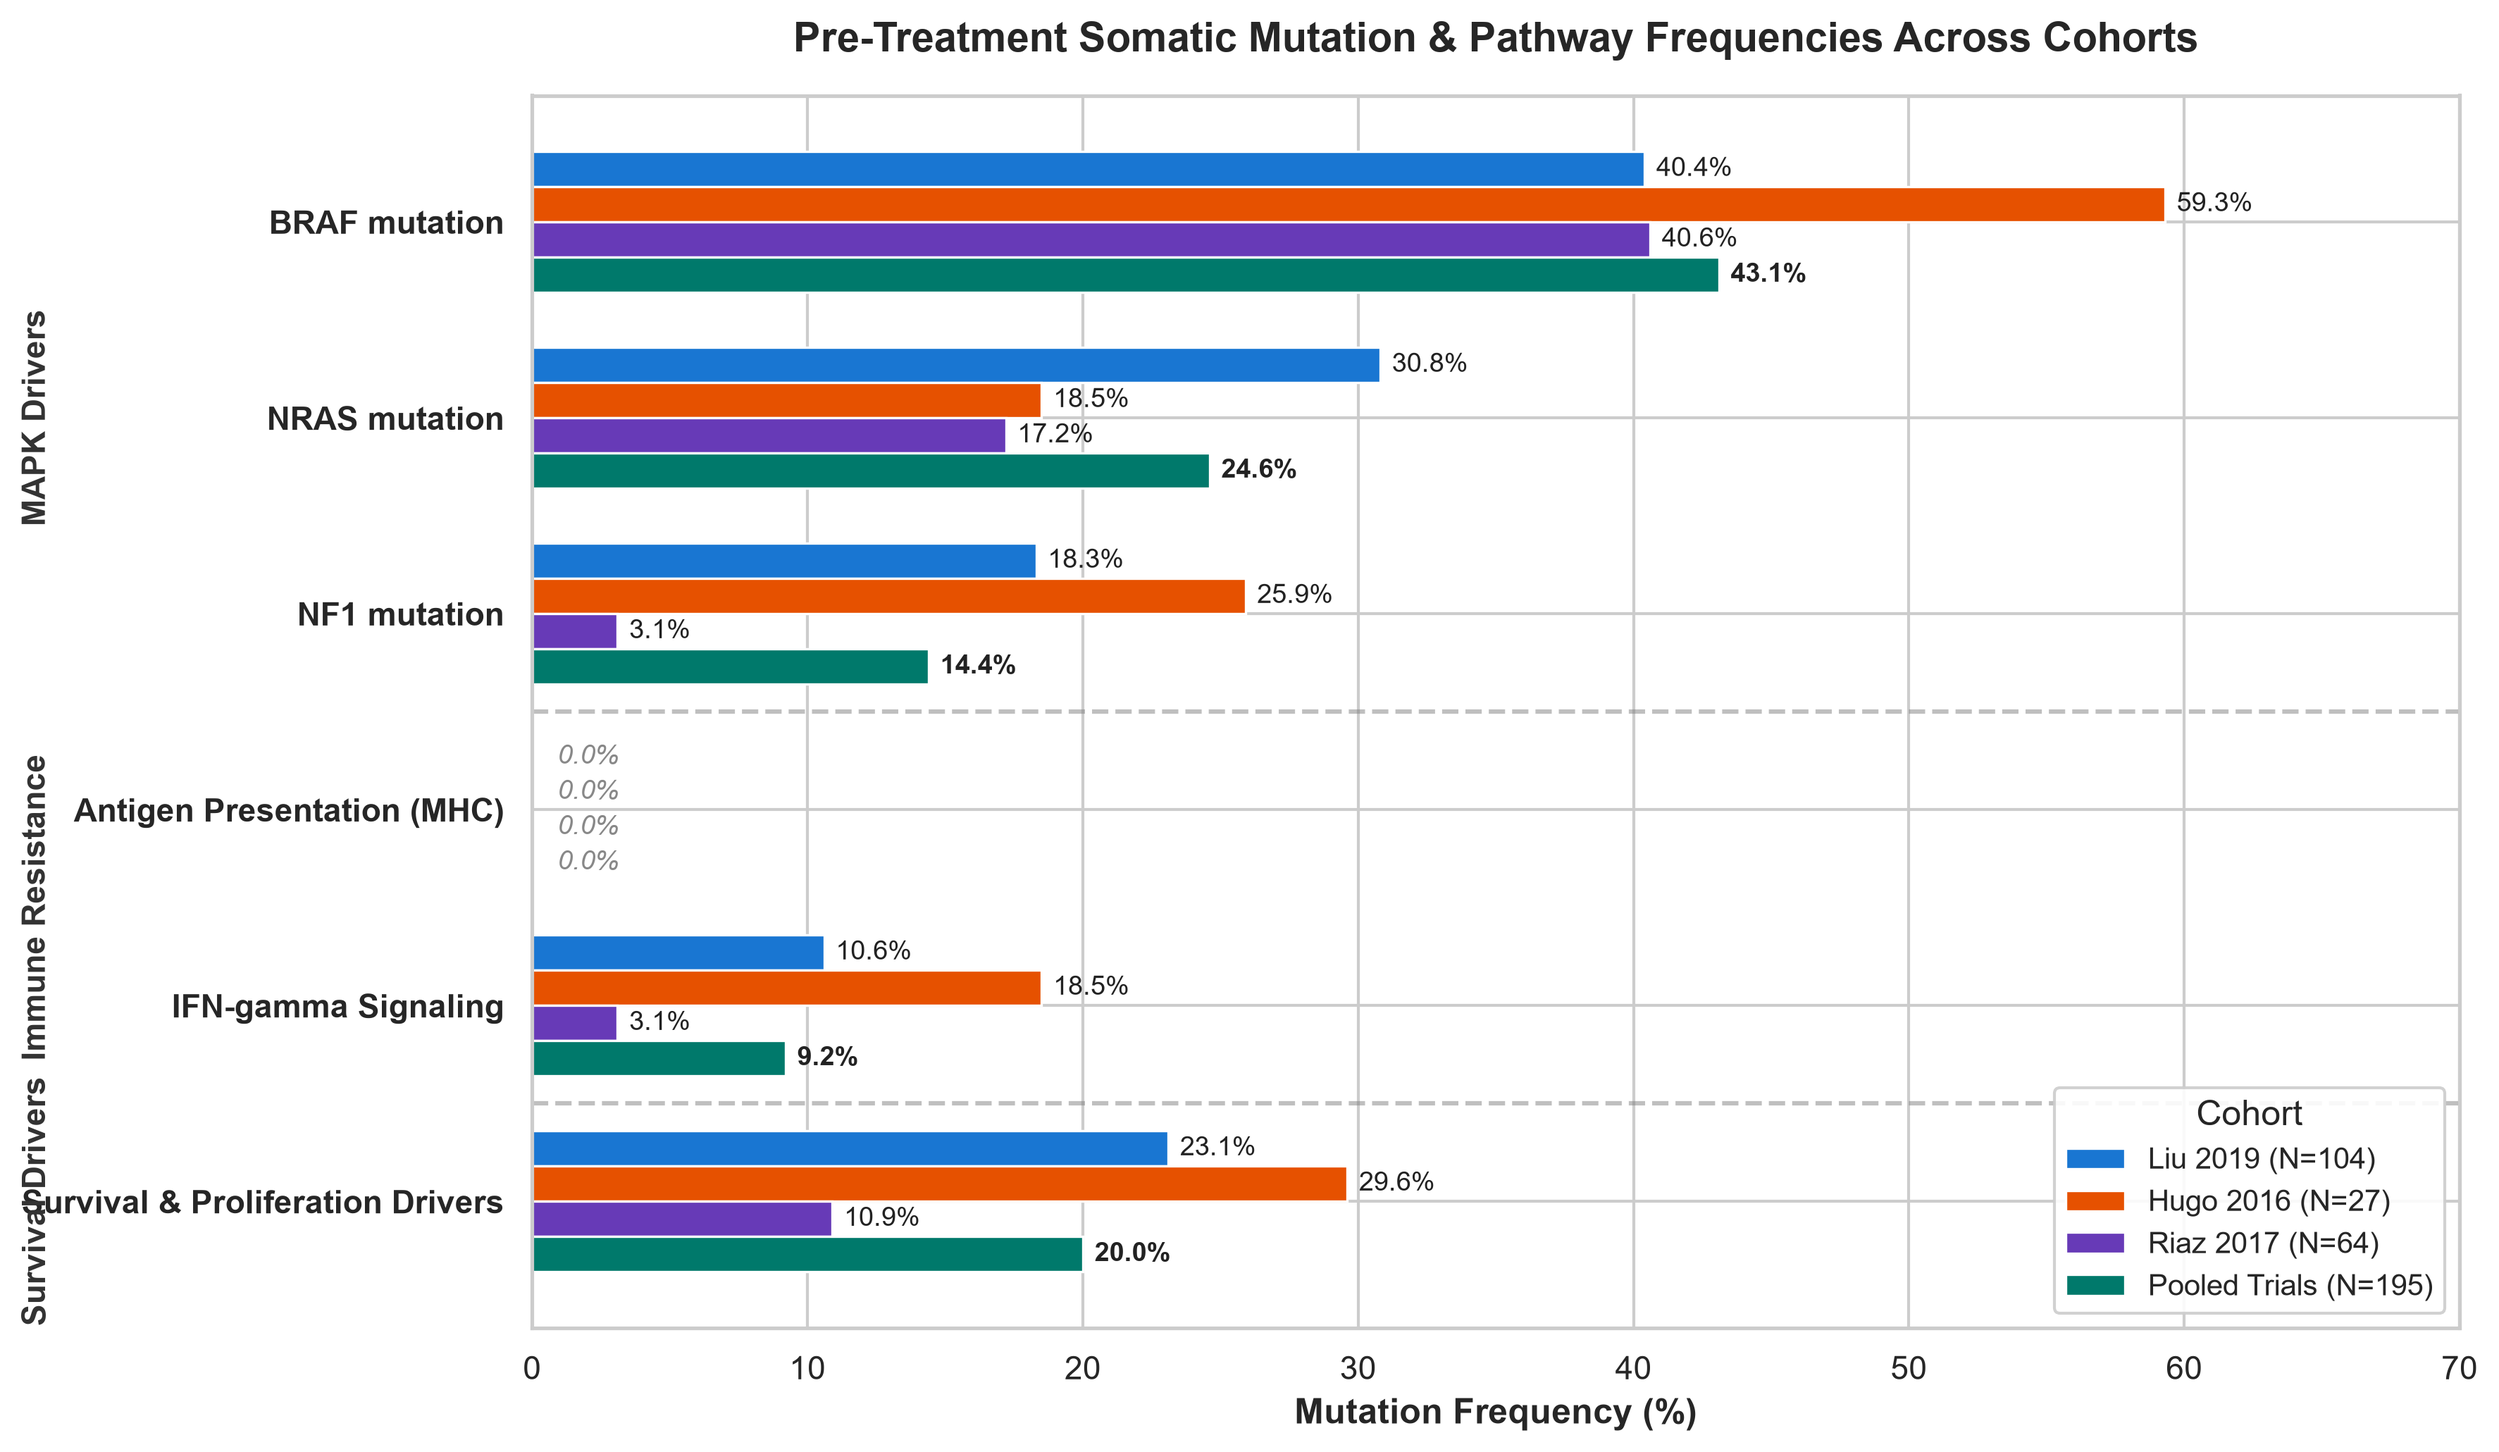
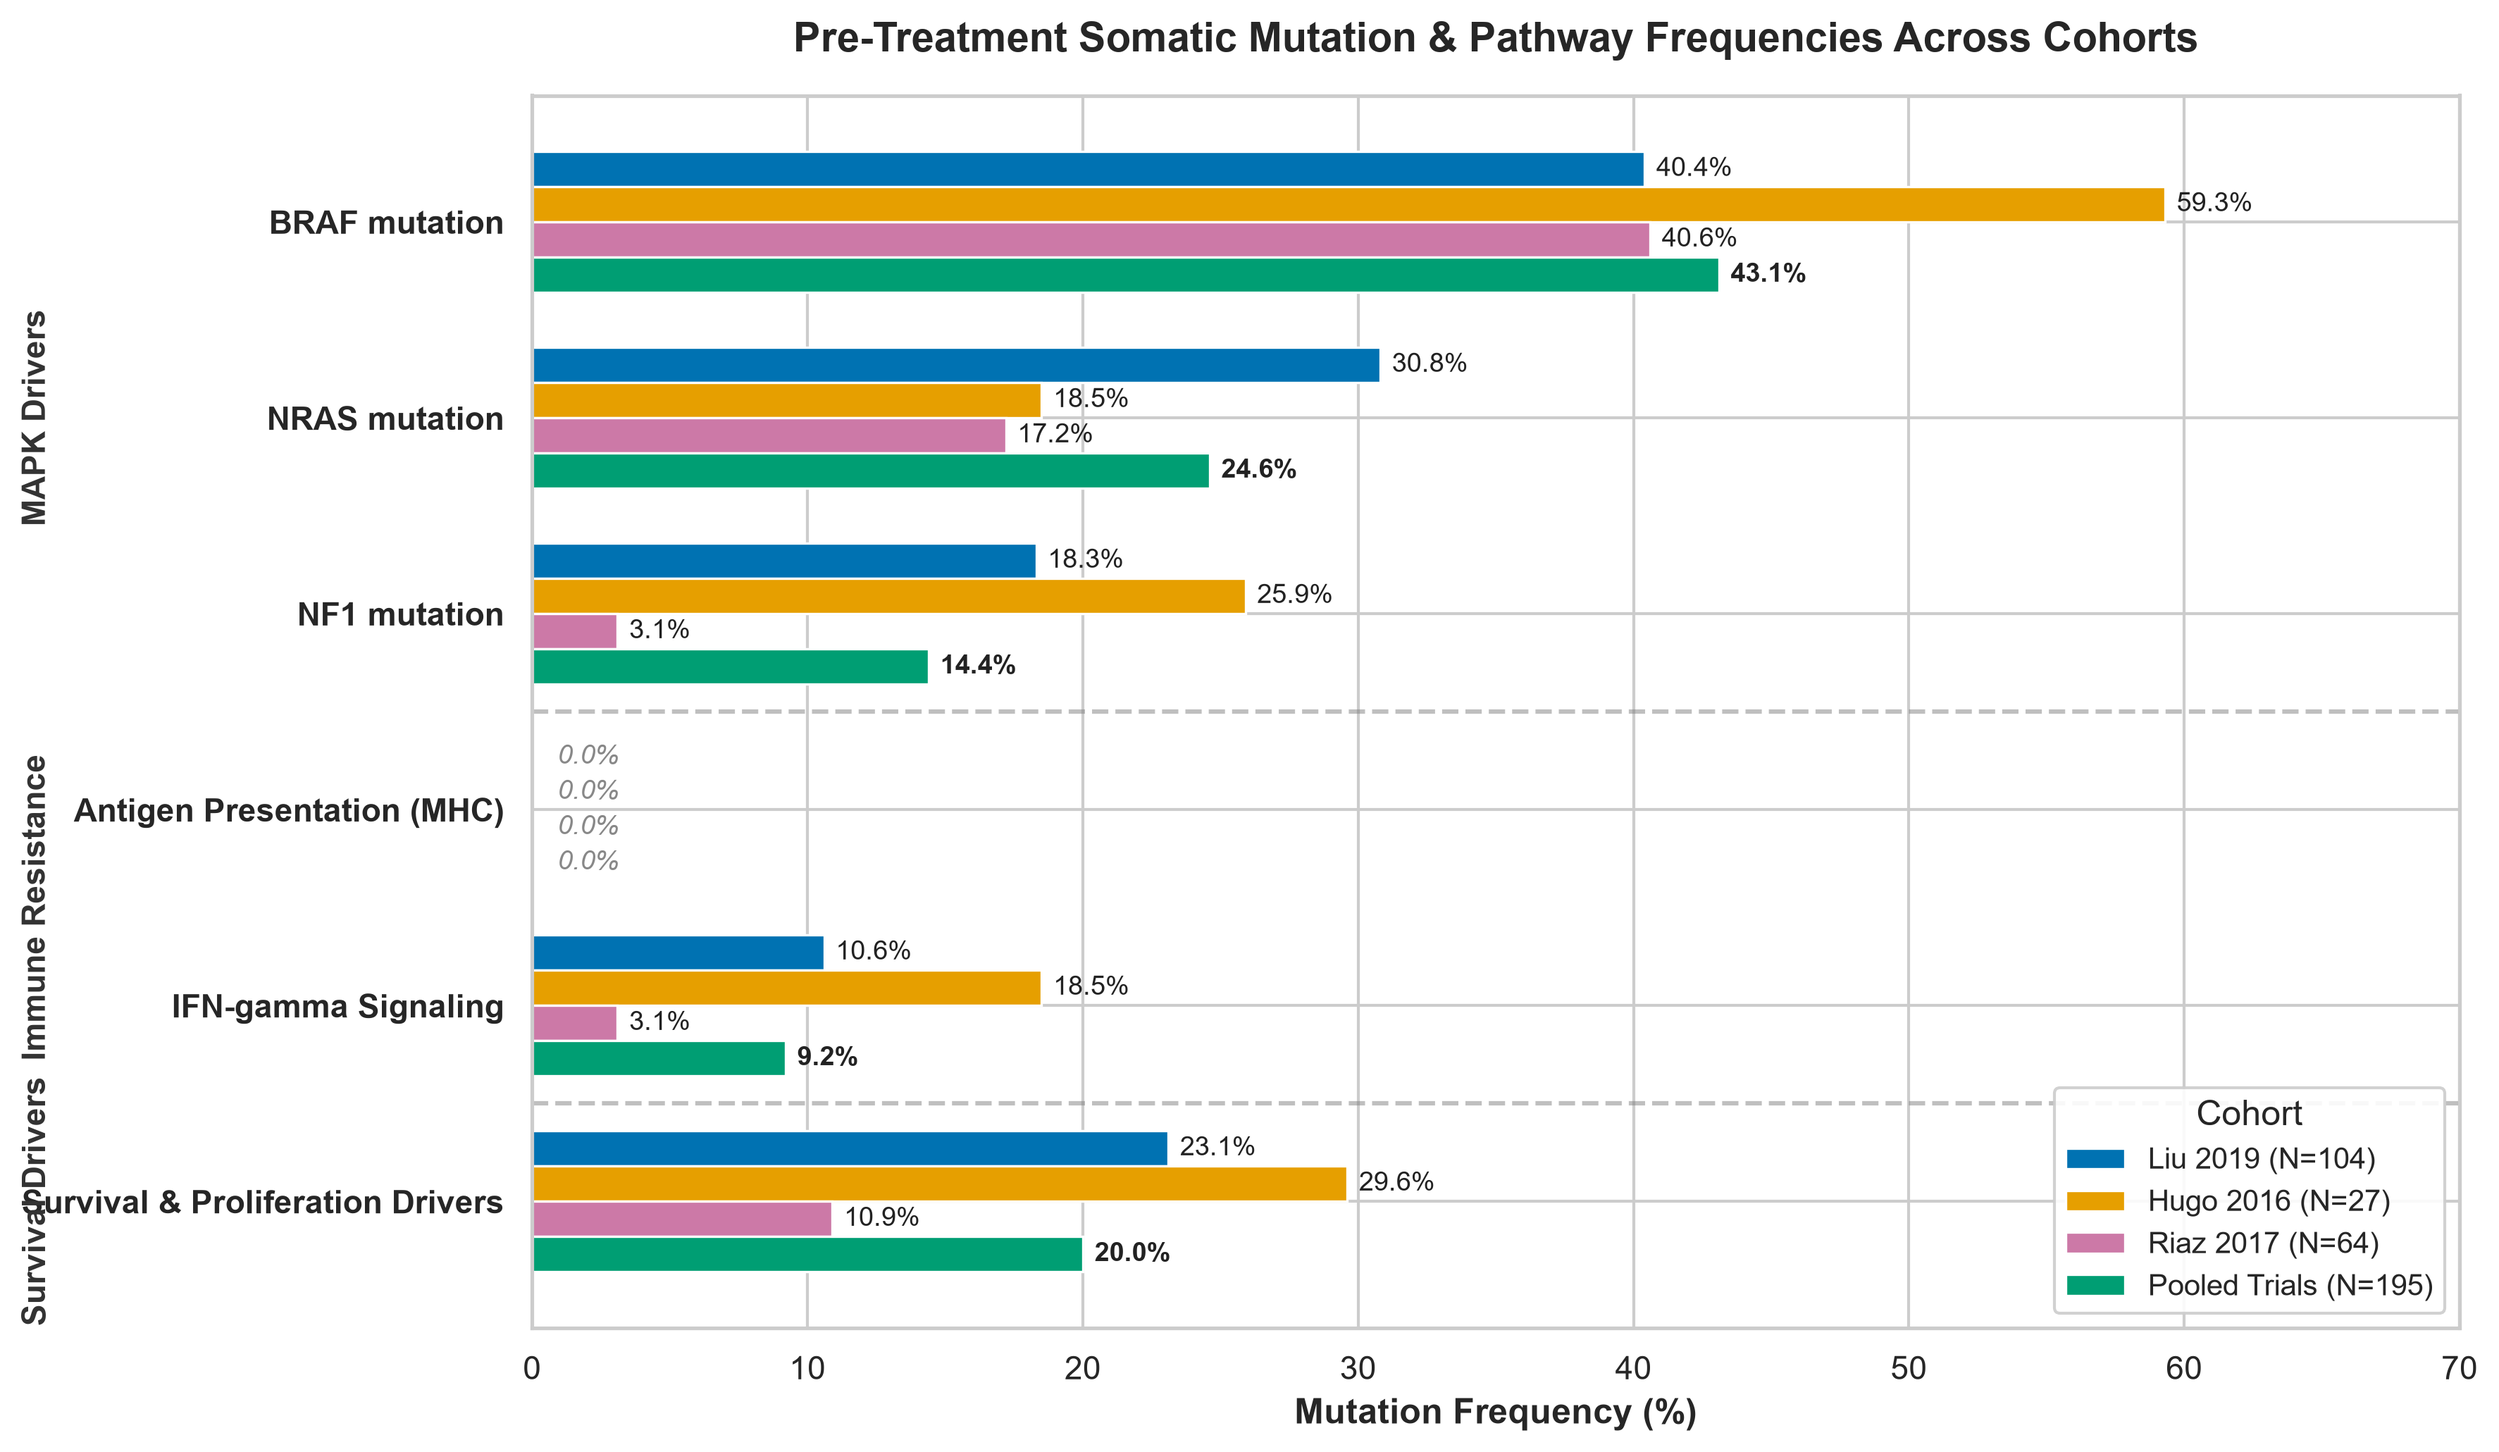
style(visualization): adopt Okabe-Ito gold standard palette
- Set Okabe-Ito (Cell/Nature/Science gold standard) color palette across project
- Update src/styles.py and .agents/AGENTS.md with Okabe-Ito hex codes
- Regenerate extended pathway figures and biomarker plots with 100% colorblind-safe colors

diff --git a/q1-response-predictor/src/styles.py b/q1-response-predictor/src/styles.py
@@ -1,49 +1,50 @@
 """
 Centralized Visualization Styles and Color Palettes for Melanoma Assignment 3.
-Based on Google Material Design 3 (M3) Color System for optimal contrast and slide readability.
+Based on the Okabe-Ito Palette System - The universal gold standard for scientific publications (Cell, Nature, Science)
+ensuring 100% colorblind-safe accessibility across deuteranopia, protanopia, and tritanopia.
 """
 
 import matplotlib.pyplot as plt
 import seaborn as sns
 
-# Study Cohort Color Mappings (Google Material Design System)
+# Study Cohort Color Mappings (Okabe-Ito Gold Standard System)
 COHORT_PALETTE = {
-    "Liu 2019": "#1976D2",               # Material Blue 700 (Vibrant Slate Indigo)
-    "Liu 2019 (N=104)": "#1976D2",
-    "Hugo 2016": "#E65100",               # Material Deep Orange 900 (Warm Terracotta)
-    "Hugo 2016 (N=27)": "#E65100",
-    "Riaz 2017": "#673AB7",               # Material Deep Purple 500 (Rich Violet)
-    "Riaz 2017 (N=64)": "#673AB7",
-    "TCGA-SKCM": "#37474F",               # Material Blue Grey 800 (Dark Charcoal Reference)
+    "Liu 2019": "#0072B2",               # Okabe-Ito Blue
+    "Liu 2019 (N=104)": "#0072B2",
+    "Hugo 2016": "#E69F00",               # Okabe-Ito Orange
+    "Hugo 2016 (N=27)": "#E69F00",
+    "Riaz 2017": "#CC79A7",               # Okabe-Ito Reddish Purple
+    "Riaz 2017 (N=64)": "#CC79A7",
+    "TCGA-SKCM": "#37474F",               # Dark Slate Charcoal Reference
     "TCGA-SKCM (N=426)": "#37474F",
-    "Pooled Trials": "#00796B",           # Material Teal 700 (Ocean Emerald Benchmark)
-    "Pooled Trials (N=195)": "#00796B",
+    "Pooled Trials": "#009E73",           # Okabe-Ito Bluish Green Benchmark
+    "Pooled Trials (N=195)": "#009E73",
 }
 
-# Clinical Response Mappings (Google Material Status Palette)
+# Clinical Response Mappings (Okabe-Ito Status Palette)
 RESPONSE_PALETTE = {
-    "CR/PR": "#2E7D32",                   # Material Green 800 (Positive Response)
-    "Responder": "#2E7D32",
-    "Response": "#2E7D32",
-    "PD": "#C62828",                      # Material Red 800 (Progressive Disease)
-    "Non-responder": "#C62828",
-    "Non-Response": "#C62828",
-    "SD": "#F57C00",                      # Material Orange 700 (Stable Disease)
+    "CR/PR": "#009E73",                   # Okabe-Ito Bluish Green (Positive Response)
+    "Responder": "#009E73",
+    "Response": "#009E73",
+    "PD": "#D55E00",                      # Okabe-Ito Vermillion Red (Progressive Disease)
+    "Non-responder": "#D55E00",
+    "Non-Response": "#D55E00",
+    "SD": "#F0E442",                      # Okabe-Ito Yellow (Stable Disease)
 }
 
-# Driver Mutation Subtype Mappings (Google Material Accent Palette)
+# Driver Mutation Subtype Mappings (Okabe-Ito Accent Palette)
 DRIVER_PALETTE = {
-    "BRAF": "#D32F2F",                    # Material Red 700
-    "NRAS": "#0288D1",                    # Material Light Blue 700
-    "NF1": "#388E3C",                     # Material Green 700
-    "Triple-WT": "#7B1FA2",               # Material Purple 700
+    "BRAF": "#D55E00",                    # Okabe-Ito Vermillion
+    "NRAS": "#56B4E9",                    # Okabe-Ito Sky Blue
+    "NF1": "#009E73",                     # Okabe-Ito Bluish Green
+    "Triple-WT": "#CC79A7",               # Okabe-Ito Reddish Purple
 }
 
 
 def set_presentation_style(font_scale: float = 1.0, dpi: int = 300):
     """
     Applies project-wide Matplotlib and Seaborn style configurations tailored for
-    presentation slides and report figures using Material Design typography.
+    presentation slides and report figures using Okabe-Ito publication standards.
     """
     sns.set_theme(style="whitegrid", font="sans-serif")
     plt.rcParams.update({

diff --git a/src/styles.py b/src/styles.py
@@ -1,49 +1,50 @@
 """
 Centralized Visualization Styles and Color Palettes for Melanoma Assignment 3.
-Based on Google Material Design 3 (M3) Color System for optimal contrast and slide readability.
+Based on the Okabe-Ito Palette System - The universal gold standard for scientific publications (Cell, Nature, Science)
+ensuring 100% colorblind-safe accessibility across deuteranopia, protanopia, and tritanopia.
 """
 
 import matplotlib.pyplot as plt
 import seaborn as sns
 
-# Study Cohort Color Mappings (Google Material Design System)
+# Study Cohort Color Mappings (Okabe-Ito Gold Standard System)
 COHORT_PALETTE = {
-    "Liu 2019": "#1976D2",               # Material Blue 700 (Vibrant Slate Indigo)
-    "Liu 2019 (N=104)": "#1976D2",
-    "Hugo 2016": "#E65100",               # Material Deep Orange 900 (Warm Terracotta)
-    "Hugo 2016 (N=27)": "#E65100",
-    "Riaz 2017": "#673AB7",               # Material Deep Purple 500 (Rich Violet)
-    "Riaz 2017 (N=64)": "#673AB7",
-    "TCGA-SKCM": "#37474F",               # Material Blue Grey 800 (Dark Charcoal Reference)
+    "Liu 2019": "#0072B2",               # Okabe-Ito Blue
+    "Liu 2019 (N=104)": "#0072B2",
+    "Hugo 2016": "#E69F00",               # Okabe-Ito Orange
+    "Hugo 2016 (N=27)": "#E69F00",
+    "Riaz 2017": "#CC79A7",               # Okabe-Ito Reddish Purple
+    "Riaz 2017 (N=64)": "#CC79A7",
+    "TCGA-SKCM": "#37474F",               # Dark Slate Charcoal Reference
     "TCGA-SKCM (N=426)": "#37474F",
-    "Pooled Trials": "#00796B",           # Material Teal 700 (Ocean Emerald Benchmark)
-    "Pooled Trials (N=195)": "#00796B",
+    "Pooled Trials": "#009E73",           # Okabe-Ito Bluish Green Benchmark
+    "Pooled Trials (N=195)": "#009E73",
 }
 
-# Clinical Response Mappings (Google Material Status Palette)
+# Clinical Response Mappings (Okabe-Ito Status Palette)
 RESPONSE_PALETTE = {
-    "CR/PR": "#2E7D32",                   # Material Green 800 (Positive Response)
-    "Responder": "#2E7D32",
-    "Response": "#2E7D32",
-    "PD": "#C62828",                      # Material Red 800 (Progressive Disease)
-    "Non-responder": "#C62828",
-    "Non-Response": "#C62828",
-    "SD": "#F57C00",                      # Material Orange 700 (Stable Disease)
+    "CR/PR": "#009E73",                   # Okabe-Ito Bluish Green (Positive Response)
+    "Responder": "#009E73",
+    "Response": "#009E73",
+    "PD": "#D55E00",                      # Okabe-Ito Vermillion Red (Progressive Disease)
+    "Non-responder": "#D55E00",
+    "Non-Response": "#D55E00",
+    "SD": "#F0E442",                      # Okabe-Ito Yellow (Stable Disease)
 }
 
-# Driver Mutation Subtype Mappings (Google Material Accent Palette)
+# Driver Mutation Subtype Mappings (Okabe-Ito Accent Palette)
 DRIVER_PALETTE = {
-    "BRAF": "#D32F2F",                    # Material Red 700
-    "NRAS": "#0288D1",                    # Material Light Blue 700
-    "NF1": "#388E3C",                     # Material Green 700
-    "Triple-WT": "#7B1FA2",               # Material Purple 700
+    "BRAF": "#D55E00",                    # Okabe-Ito Vermillion
+    "NRAS": "#56B4E9",                    # Okabe-Ito Sky Blue
+    "NF1": "#009E73",                     # Okabe-Ito Bluish Green
+    "Triple-WT": "#CC79A7",               # Okabe-Ito Reddish Purple
 }
 
 
 def set_presentation_style(font_scale: float = 1.0, dpi: int = 300):
     """
     Applies project-wide Matplotlib and Seaborn style configurations tailored for
-    presentation slides and report figures using Material Design typography.
+    presentation slides and report figures using Okabe-Ito publication standards.
     """
     sns.set_theme(style="whitegrid", font="sans-serif")
     plt.rcParams.update({

diff --git a/.agents/AGENTS.md b/.agents/AGENTS.md
@@ -1,28 +1,28 @@
 # Project Style & Visualization Guidelines
 
-Whenever generating plots, figures, web artifacts, or presentation reports for this project, always adhere to the project-wide visual style and Google Material Design color palettes defined below.
+Whenever generating plots, figures, web artifacts, or presentation reports for this project, always adhere to the project-wide visual style and Okabe-Ito (Cell / Nature / Science Gold Standard) color palettes defined below.
 
 ---
 
-## 1. Color Palettes (Google Material Design System)
+## 1. Color Palettes (Okabe-Ito Scientific Gold Standard)
 
 ### Study Cohorts
-- **Liu 2019**: `#1976D2` (Material Blue 700)
-- **Hugo 2016**: `#E65100` (Material Deep Orange 900)
-- **Riaz 2017**: `#673AB7` (Material Deep Purple 500)
-- **TCGA-SKCM**: `#37474F` (Material Blue Grey 800)
-- **Pooled Trials**: `#00796B` (Material Teal 700 Benchmark)
+- **Liu 2019**: `#0072B2` (Okabe-Ito Blue)
+- **Hugo 2016**: `#E69F00` (Okabe-Ito Orange)
+- **Riaz 2017**: `#CC79A7` (Okabe-Ito Reddish Purple)
+- **TCGA-SKCM**: `#37474F` (Dark Slate Charcoal Reference)
+- **Pooled Trials**: `#009E73` (Okabe-Ito Bluish Green Benchmark)
 
 ### Clinical Response & Phenotypes
-- **Responder (CR / PR)**: `#2E7D32` (Material Green 800)
-- **Non-Responder (PD)**: `#C62828` (Material Red 800)
-- **Stable Disease (SD)**: `#F57C00` (Material Orange 700)
+- **Responder (CR / PR)**: `#009E73` (Okabe-Ito Bluish Green)
+- **Non-Responder (PD)**: `#D55E00` (Okabe-Ito Vermillion Red)
+- **Stable Disease (SD)**: `#F0E442` (Okabe-Ito Yellow)
 
 ### Driver Mutation Subtypes
-- **BRAF**: `#D32F2F` (Material Red 700)
-- **NRAS**: `#0288D1` (Material Light Blue 700)
-- **NF1**: `#388E3C` (Material Green 700)
-- **Triple-WT**: `#7B1FA2` (Material Purple 700)
+- **BRAF**: `#D55E00` (Okabe-Ito Vermillion)
+- **NRAS**: `#56B4E9` (Okabe-Ito Sky Blue)
+- **NF1**: `#009E73` (Okabe-Ito Bluish Green)
+- **Triple-WT**: `#CC79A7` (Okabe-Ito Reddish Purple)
 
 ---
 
